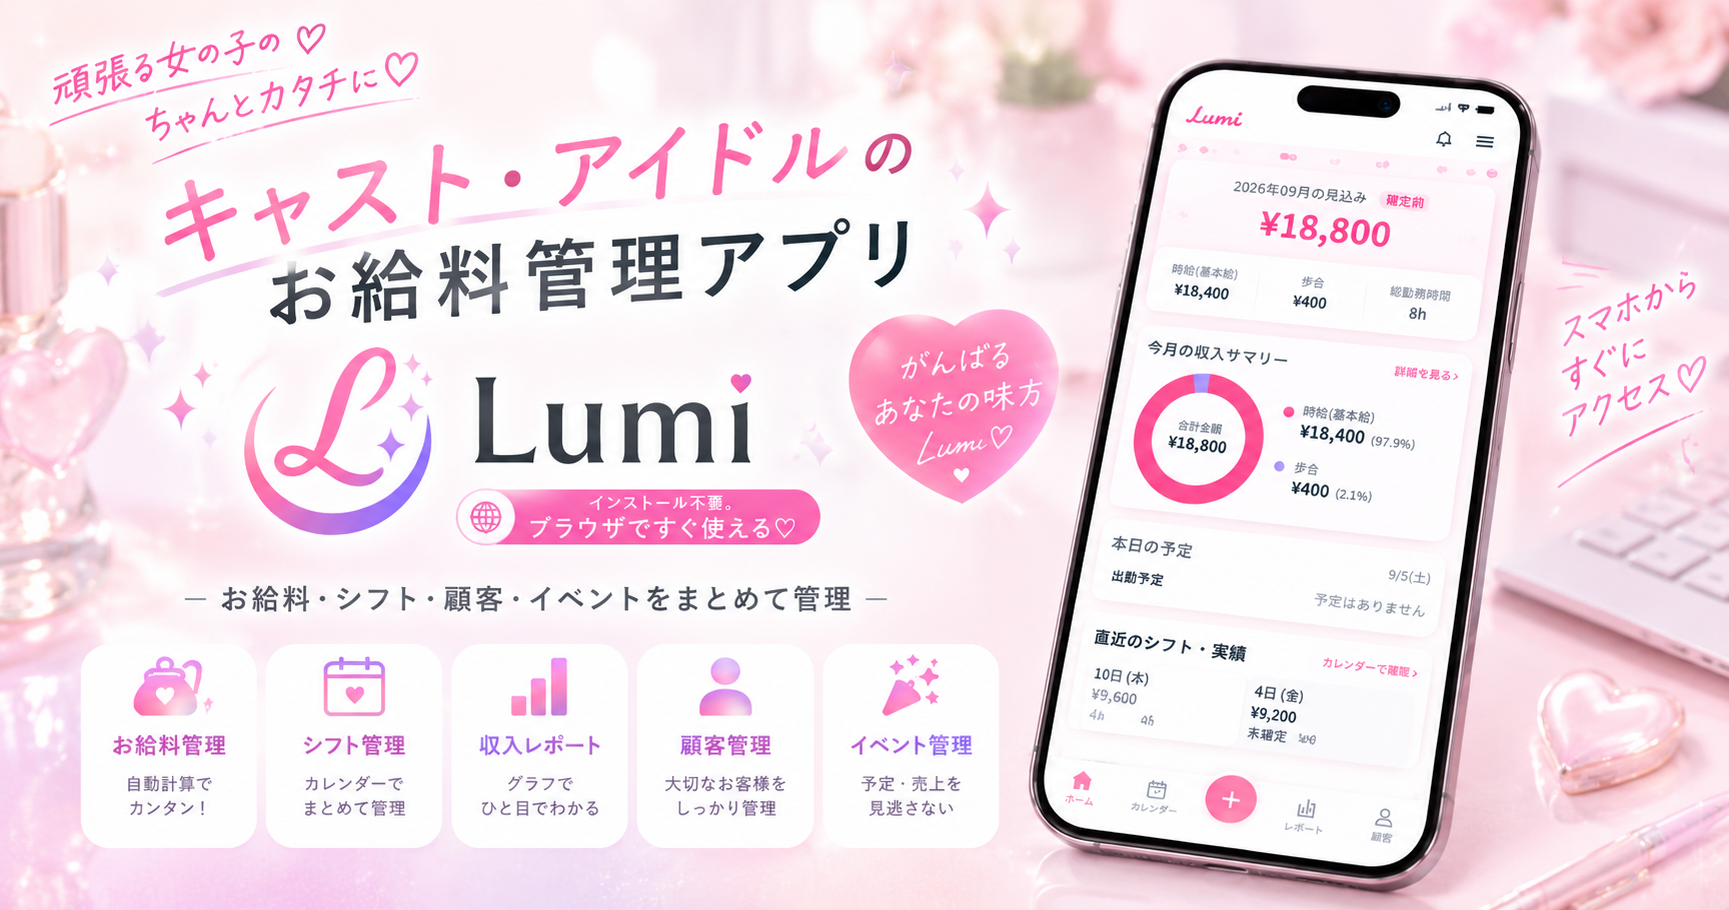
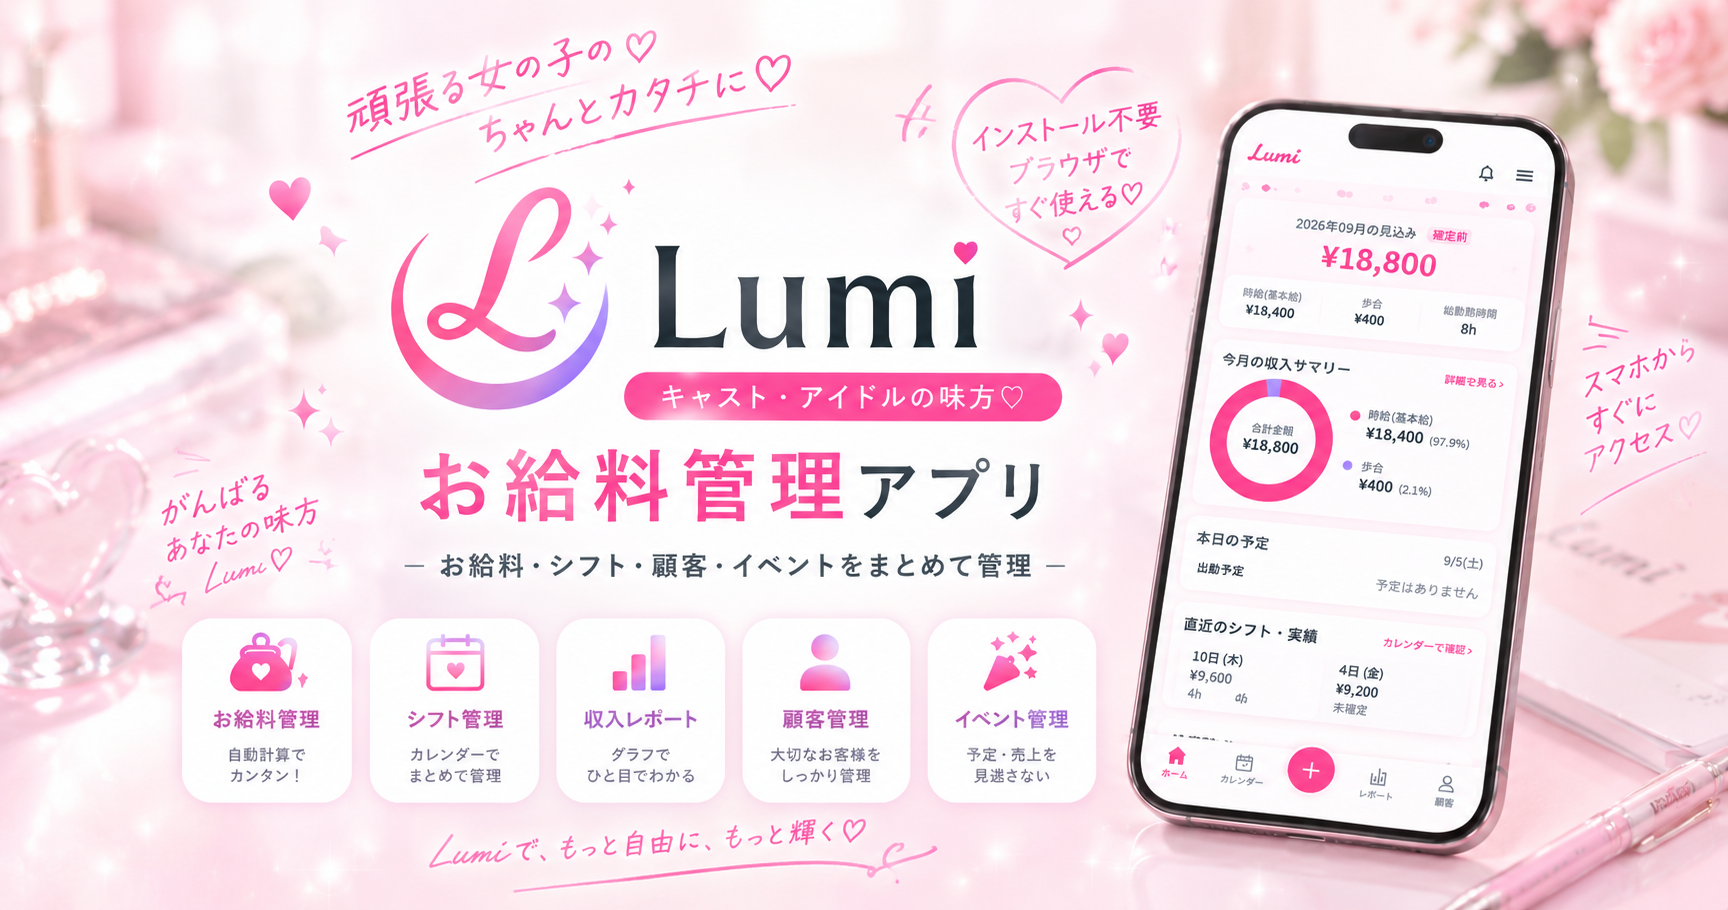
OGP画像を新デザインのアイキャッチに差し替え
- assets/ogp.png を新版(1728x910)に更新
- og:image:width を 1728 に合わせる

Claude-Session: https://claude.ai/code/session_014oLvjjcxsPGtNt37ryay3S

diff --git a/index.html b/index.html
@@ -24,7 +24,7 @@
   <meta property="og:description" content="時給・歩合（バック）・日払い・顧客やイベントの管理、収支レポートまでスマホひとつで。データは端末内だけに保存、登録不要ですぐ使えます。キャスト・アイドルのお金をかんたん管理。" />
   <meta property="og:url" content="https://poka-tools.github.io/lumi-official/" />
   <meta property="og:image" content="https://poka-tools.github.io/lumi-official/assets/ogp.png" />
-  <meta property="og:image:width" content="1729" />
+  <meta property="og:image:width" content="1728" />
   <meta property="og:image:height" content="910" />
   <meta property="og:image:alt" content="Lumi（ルミ）キャスト・アイドルのお給料管理アプリ" />
   <meta property="og:locale" content="ja_JP" />
